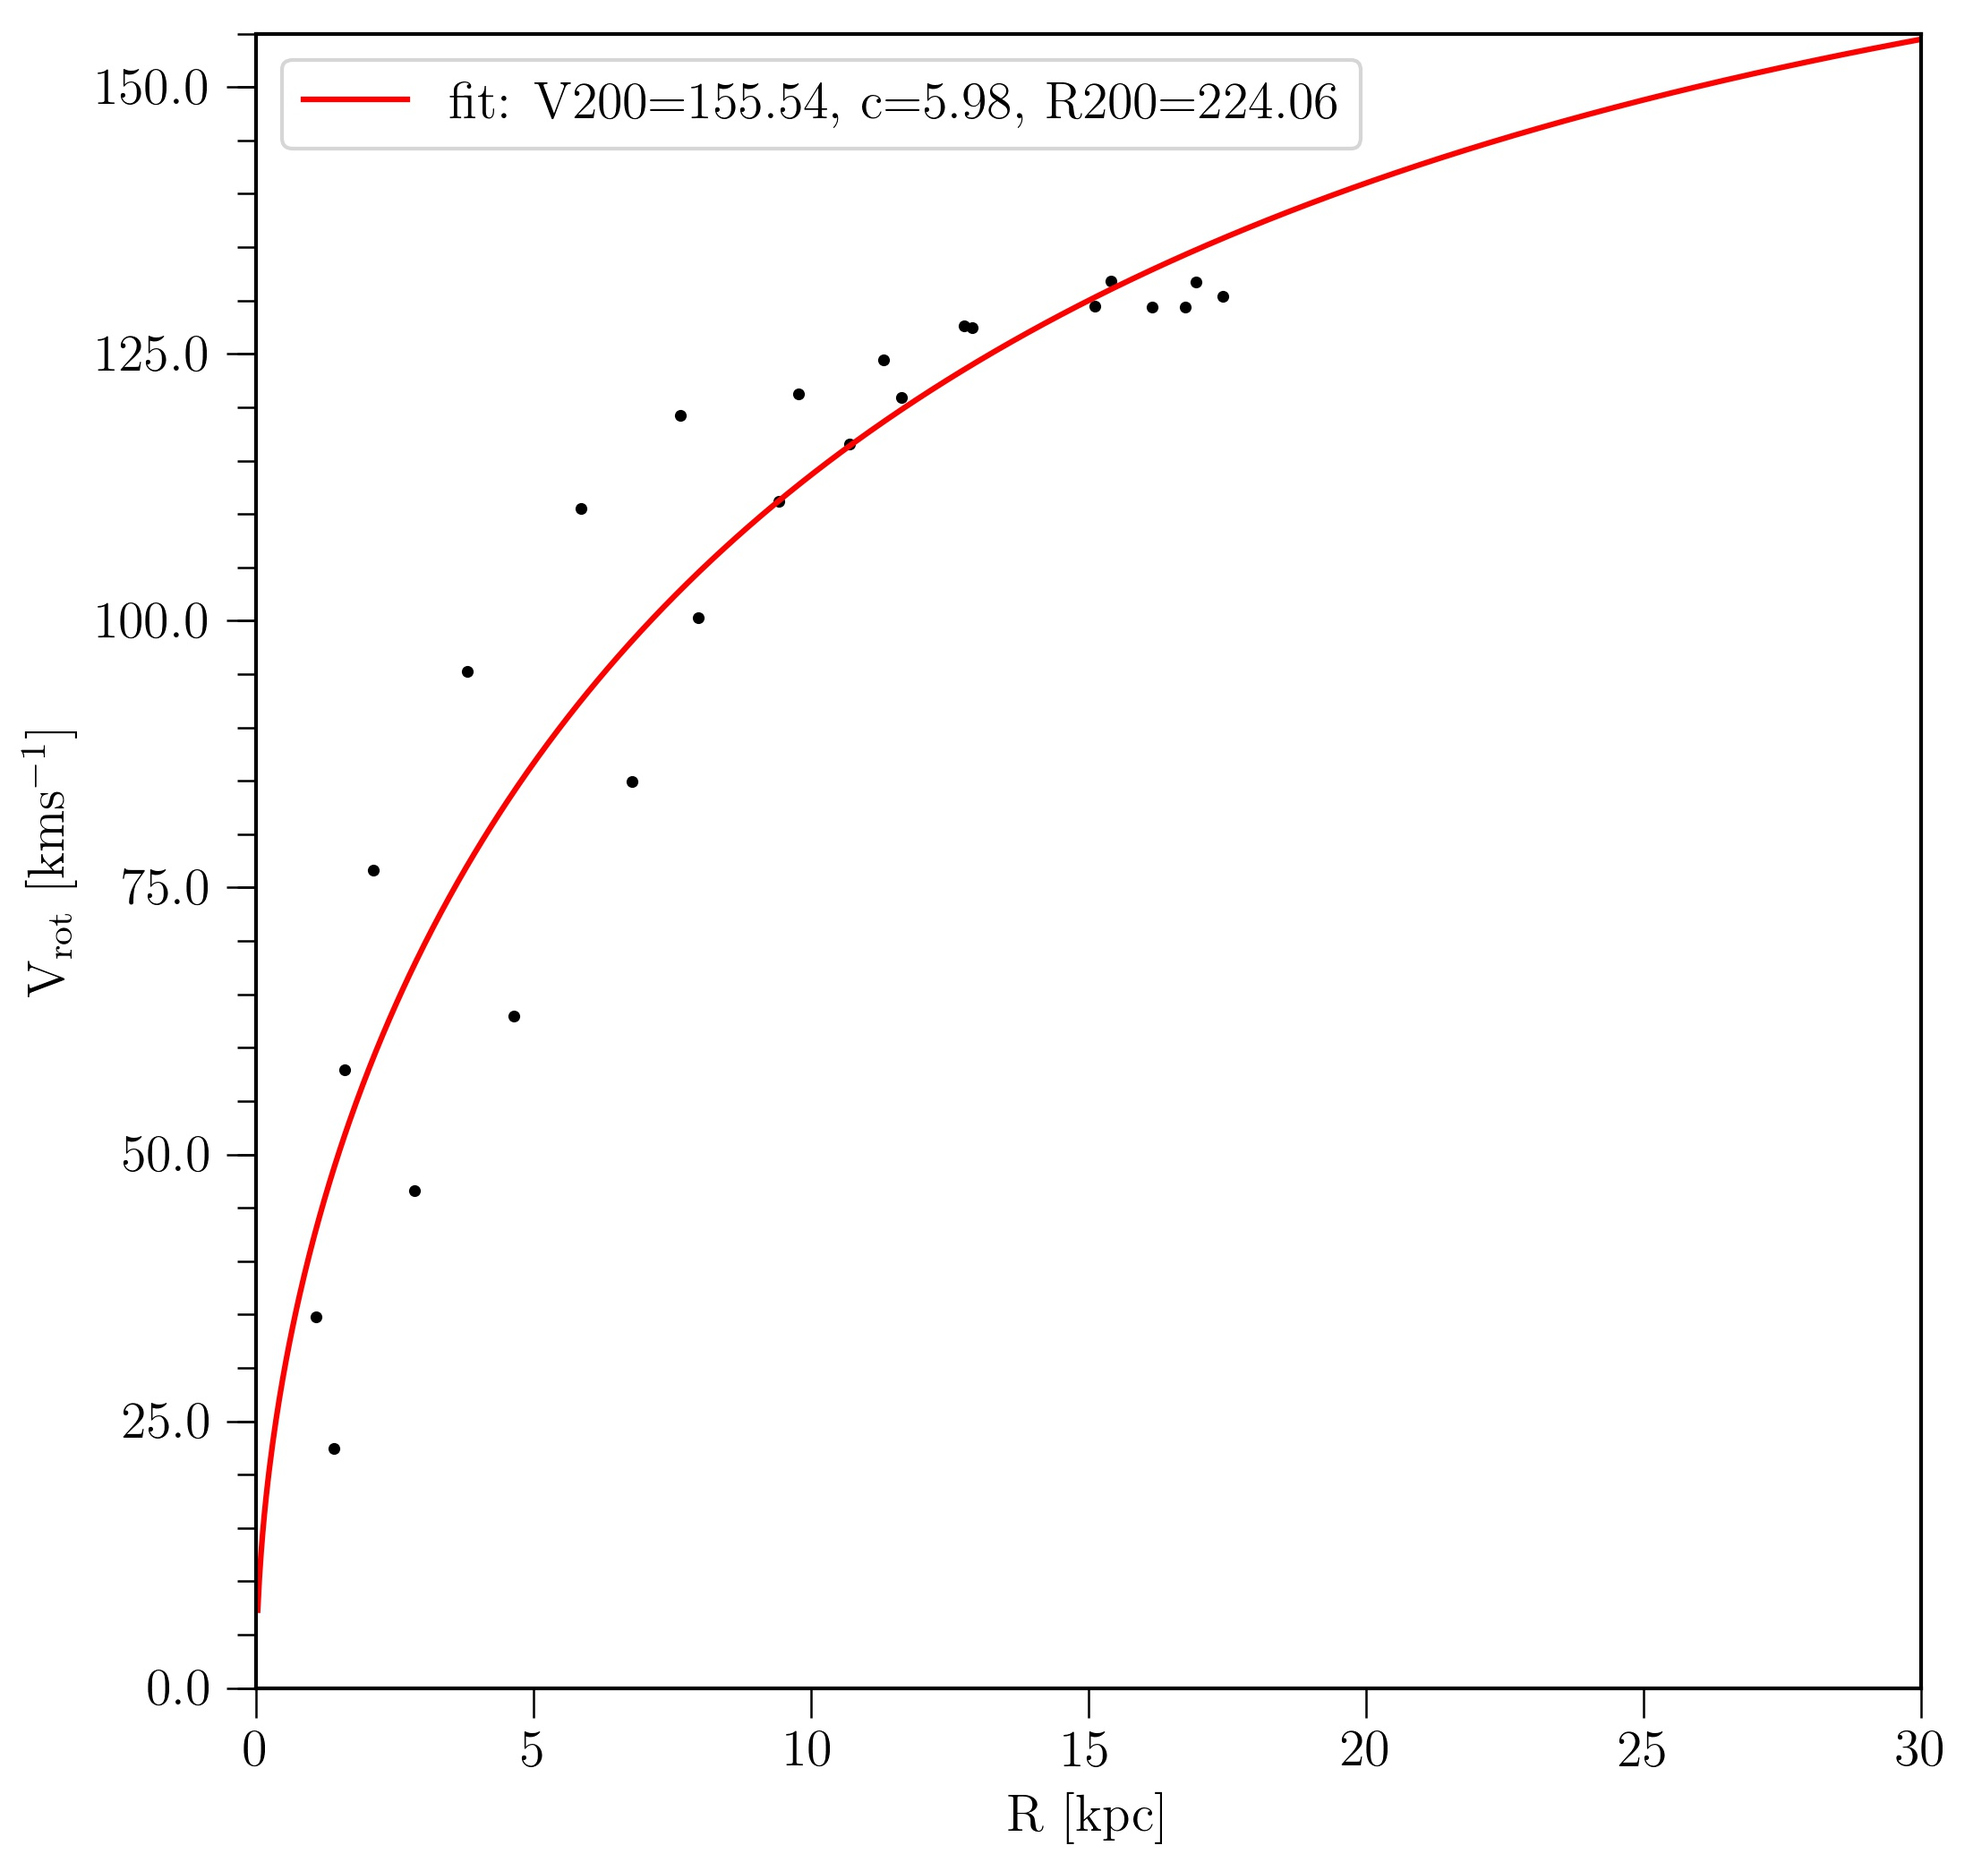
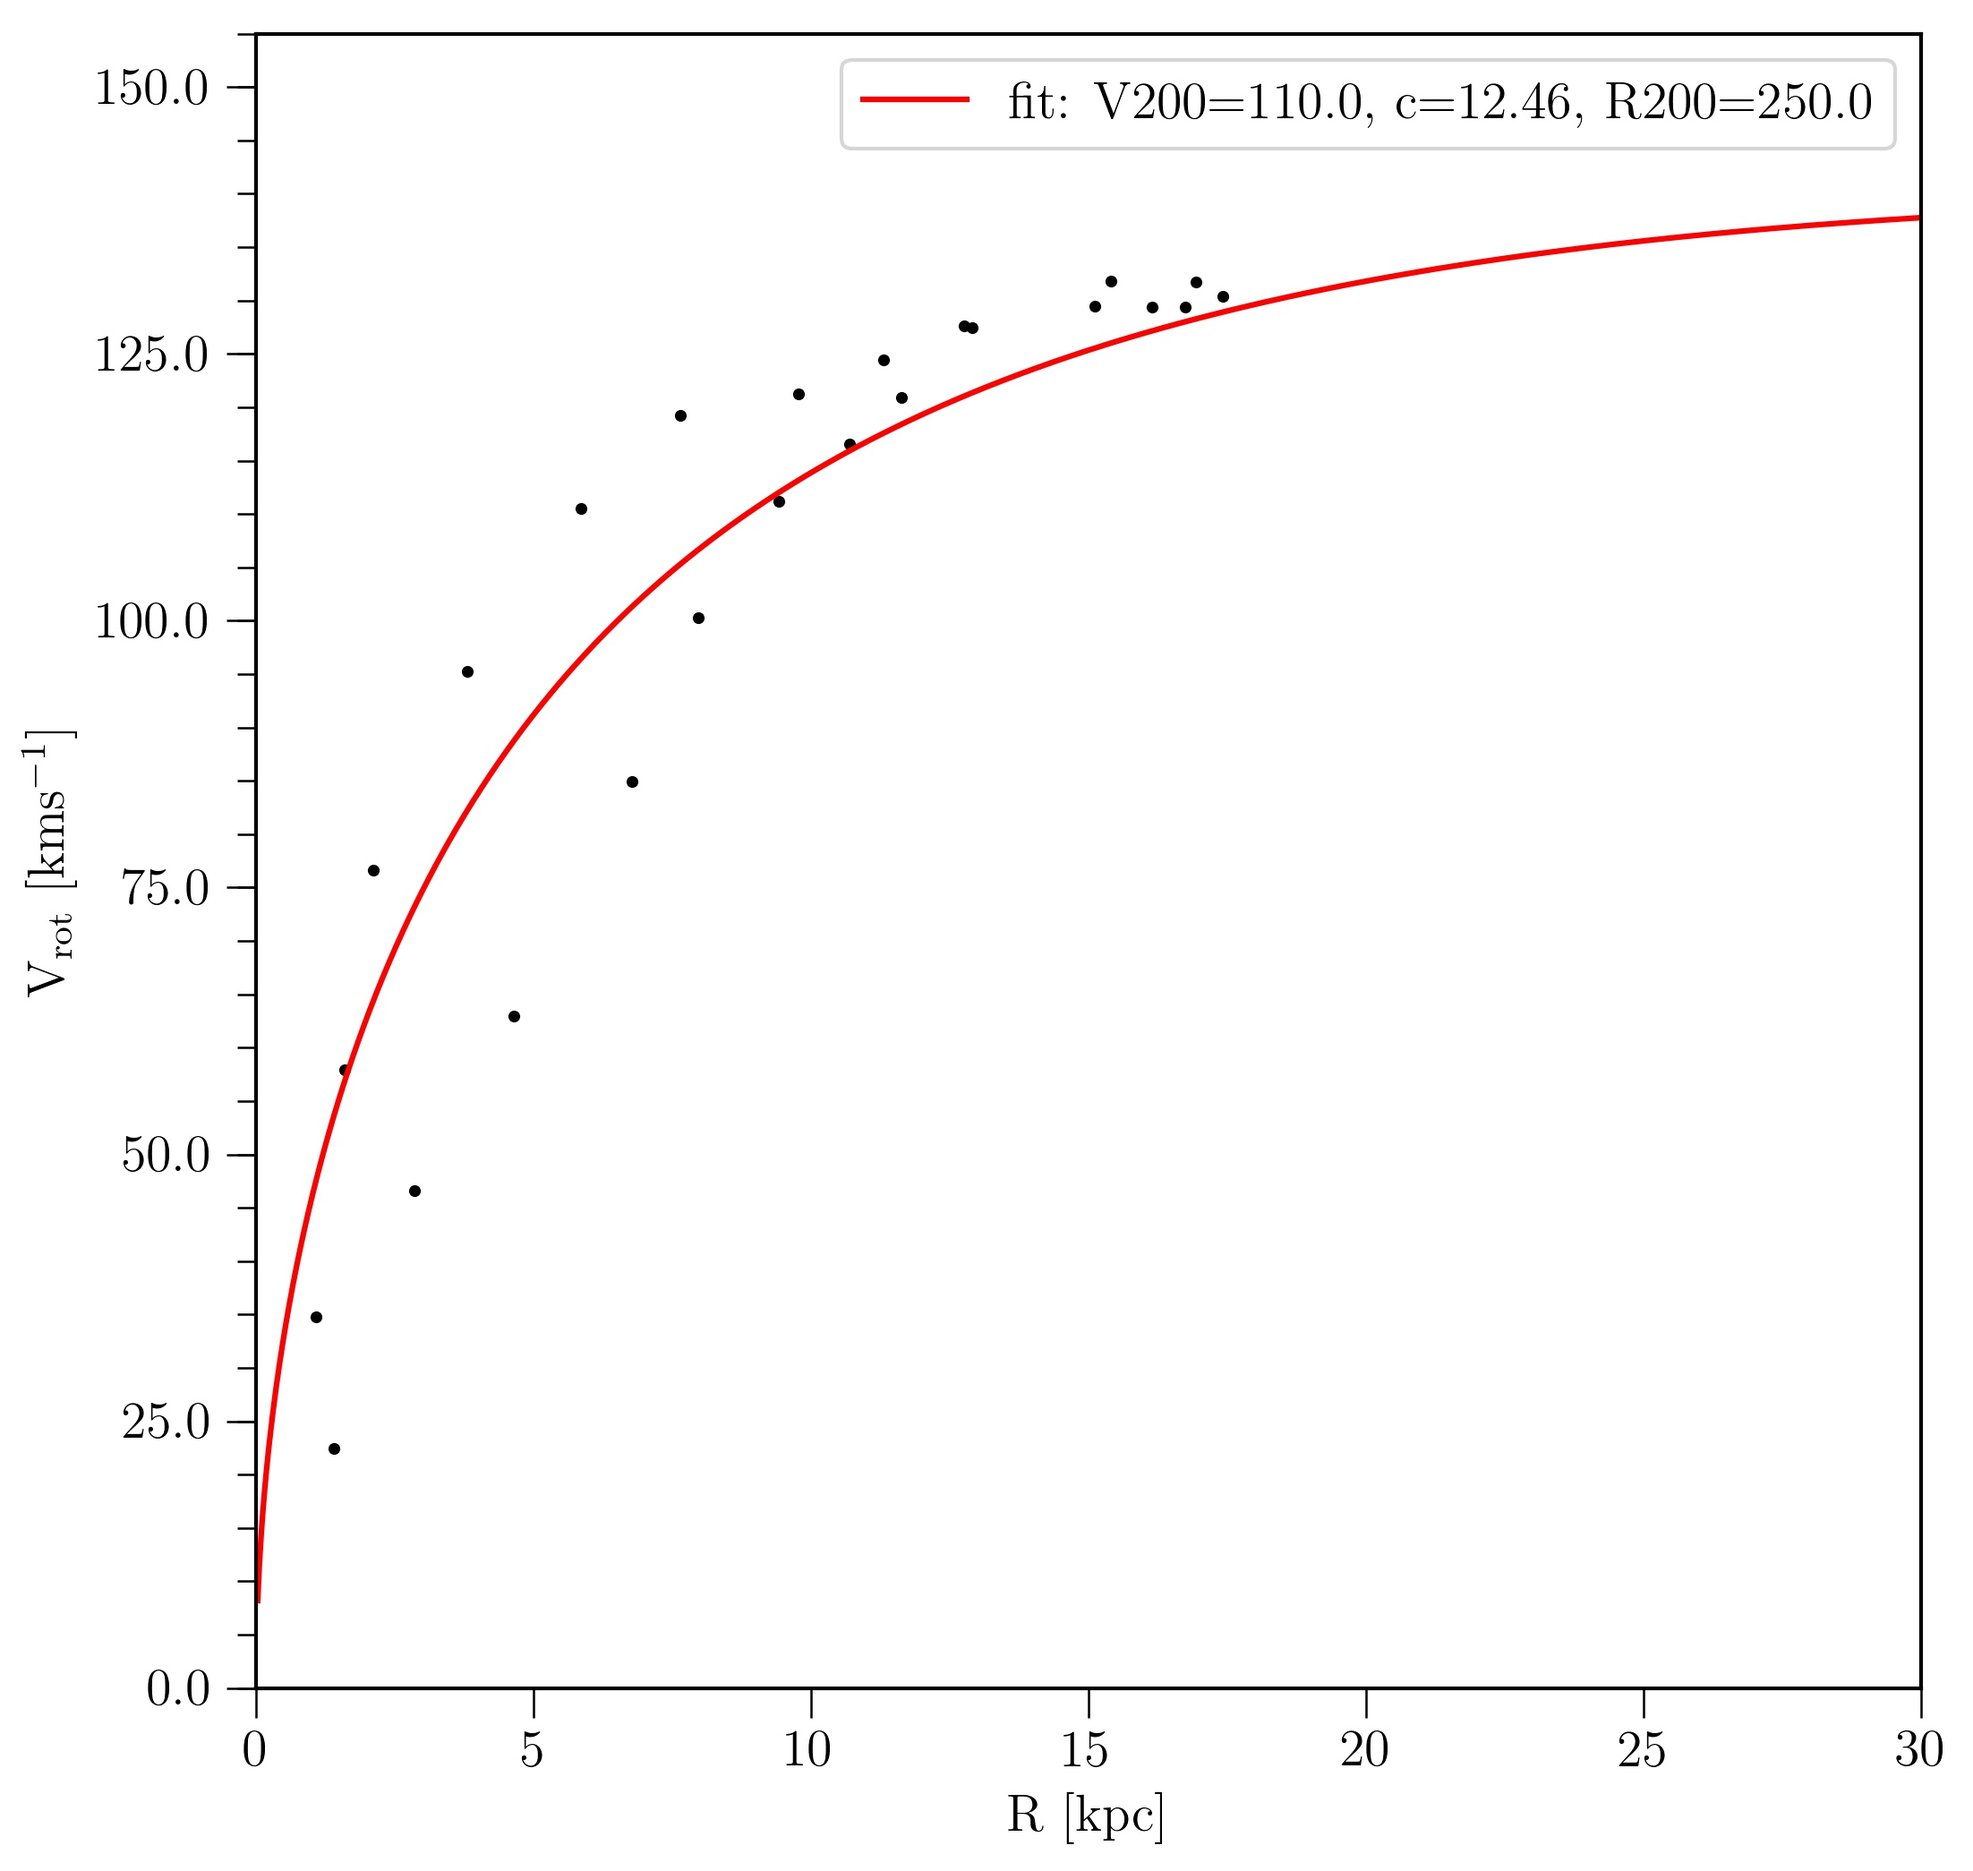
finished NGC3666 models, added model ranges to salt_galaxy_sightlines_cut_plus_ancillary.csv

diff --git a/rotation_paper/rotation_paper3.tex b/rotation_paper/rotation_paper3.tex
@@ -75,7 +75,8 @@ HE0439-5254  				&      NGC1566  		&      04  40  12.0  		&	-52  48  18.0  		&  
 H1101-232  				&      NGC3513  		&      11  03  37.7  		&	-23  29  31.0  		&   0.18600  	& 12025		&   [-36, 29]			&   [-35, 33]  		& 13341	\\
 SDSSJ112005.00+041323.0  	& 	NGC3633  		&      11  20  05.0  		&	+04  13  23.0 		&   0.54689  	& 12603		&   [-155, -12]			&   [-77, 13]  		& 4708	\\
 RX\_J1121.2+0326  			&      CGCG039-137 		&   	11  21  14.0  		&	+03  25  47.0 		&   0.15200  	& 12248		&   [-36, 138]			&   [-36, 166]  		& 2695	\\
-RX\_J1121.2+0326  			&      NGC3633  		&	11  21  14.0  		&	+03  25  47.0 		&   0.15200  	& 12248		&   [-155, -12]			&   [-77, 13]  		& 2695	\\
+RX\_J1121.2+0326  			&      NGC3633  		&	11 21 14.0  		&	+03  25  47.0 		&   0.15200  	& 12248		&   [-155, -12]			&   [-77, 13]  		& 2695	\\
+SDSSJ112224.10+031802.0	&	NGC3633			&	11 22 24.1			&	+03 18 02.0		&   0.47528	& 12603		&   N/A				&   N/A			& 7588	\\
 SDSSJ112224.10+031802.0  	& 	CGCG039-137 		&  	11  22  24.1  		&	+03  18  02.0 		&   0.47528  	& 12603		&   [-130, -114]			&   [-116, -98]  		& 7588	\\
 3C273.0  					&	NGC4536  		&      12  29  06.7  		&	+02  03  09.0 		&   0.15834  	& 12038		&  [67, 134]			&   [-6, 43]  		& 4002	\\
 HE1228+0131  				&      NGC4536  		&      12  30  50.0  		&	+01  15  23.0  		&   0.11700  	& 11686		&   [23, 131] 			&   [7, 33]  		& 11036	\\
@@ -130,11 +131,11 @@ CSO295					&	NGC3432			&	10 52 05.6		&	+36 40 40.0		&   0.60900	& 14772		&   [-3
 MS1047.3+3518			&	NGC3432			&	10 50 10.9		&	+35 02 02.0		&   0.04125	& 8316		&   [35, 124]			&   [19, 109]		&  8301	\\
 RX\_J1054.2+3511			&	NGC3432			&	10 54 16.2		&	+35 11 24.0		&   0.20300	& 14772		&   [0, 123]			&   [-9, 111]		&  533	\\
 
-SDSSJ112439.50+113117.0	&	NGC3666			&	11 24 39.4			&	+11 31 17.0		&   0.14300	& 14071		&   					&   				&  10427	\\
+SDSSJ112439.50+113117.0	&	NGC3666			&	11 24 39.4			&	+11 31 17.0		&   0.14300	& 14071		&   [-87, 20]			&   [-136, 20]		&  10427	\\
 
-SDSSJ112632.90+120437.0	&	NGC3666			&	11 26 32.9			&	+12 04 37.0		&   0.97700	& 13314		&   					&   				&  8289	\\
+SDSSJ112632.90+120437.0	&	NGC3666			&	11 26 32.9			&	+12 04 37.0		&   0.97700	& 13314		&   [-59, -29]			&   [-45, -18]		&  8289	\\
 
-SDSSJ112756.70+115427.0	&	NGC3666			&	11 27 56.8			&	+11 54 27.0		&   0.50900	& 14145		&   					&   				&  5146	\\
+SDSSJ112756.70+115427.0	&	NGC3666			&	11 27 56.8			&	+11 54 27.0		&   0.50900	& 14145		&   [-127, -80]			&   [-100, -57]		&  5146	\\
 
 
  \\
@@ -412,7 +413,7 @@ NGC3633 is an isolated, edge-on SAa type galaxy at a velocity of $2587 \pm 7$ \k
 
 There are three nearby sightlines: SDSSJ112005.00+041323.0 is straight north at 468 kpc and $78^{\circ}$ azimuth, RX\_J1121.2+0326 is to the southeast at 184 kpc and $58^{\circ}$ azimuth, and SDSSJ112224.10+031802.0 at 413 kpc and $50^{\circ}$ azimuth. Toward RX\_J1121.2+0326 we detect a Ly$\alpha$ absorber at 2605 \kms~on the approaching side, which is essentially systemic velocity for NGC3633. The spectrum of SDSSJ112224.10+031802.0 shows absorbers at 2285 and 2578 \kms, both of which are of the correct sign for co-rotation. We do not detect any Ly$\alpha$ towards the third sightline, SDSSJ112224.10+031802.0.
 
-SDSSJ112005.00+041323.0 and SDSSJ112224.10+031802.0 are both outside of our 2 x 3 $R_{vir}$ model limits.
+SDSSJ112005.00+041323.0 and SDSSJ112224.10+031802.0 are both outside of our 2 x 3 $R_{vir}$ model limits. 
 
 %We measure a redshift for this galaxy of $cz = 2597.6 \pm 2.4$ \kms. 
 
@@ -777,22 +778,24 @@ SDSSJ110349.70+371527.0 (low res only) \\
 
 
 \subsection{NGC3666}
-$V_{sys}=1060$ \kms. Mostly isolated, with only a few dwarfs $\sim400$ kpc away. \cite{rhee1996} \\
+NGC3666 is a mostly isolated and edge-on SA(rs)c type galaxy at $V_{sys}=1060$ \kms. We take a rotation curve and orientation from \cite{rhee1996}. The following three QSOs are located toward on the approaching, northeast side: SDSSJ112439.50+113117.0 at 58 kpc, SDSSJ112632.90+120437.0 at 279 kpc, and SDSSJ112756.70+115427.0 at 320 kpc. There are several dwarf galaxies $\sim400$ kpc away, but all are more distant than these three QSOs. We detect Ly$\alpha$ toward SDSSJ112439.50+113117.0 at 1047 and 1099 \kms ($\Delta v = -13, 39$ \kms).
 
-Inclination: 73 \\ 
-Adjusted Inc: 77 \\ 
-Morphology: SA(rs)c \\ 
-$L_{\**}$ = 0.61 \\
+\\
+
+%Inclination: 73 \\ 
+%Adjusted Inc: 77 \\ 
+%Morphology: SA(rs)c \\ 
+%$L_{\**}$ = 0.61 \\
 
 %SDSSJ111916.20+110107.0 at 406 kpc - G230L only \\
 %4C12.40 at 451 kpc - G190H, G270H, G230L only \\
 
-SDSSJ112439.50+113117.0 at 58 kpc - Borthakur target (Lya at 1047, 1099 \kms) \\
+SDSSJ112439.50+113117.0 at 58 kpc - Borthakur target (Lya at 1047, 1099 \kms), [-87, 20], [-136, 20]NFW	\\
 SDSSJ112632.90+120437.0 at 279 kpc - Borthakur target (not in reduce yet) \\ 
 SDSSJ112756.70+115427.0 at 320 kpc - (not in reduce yet) \\
 
-
 NW side is receding
+
 
 %\subsection{NGC3769}
 %$V_{sys} = 737$ \kms. \cite{rhee1996}

diff --git a/rotation_paper/rotation_model8.py b/rotation_paper/rotation_model8.py
@@ -295,8 +295,9 @@ def plot_NFW(xData, yData, popt, x_lim):
     
 def main():
     hubbleConstant = 71.0
-    fit_NFW = False
+    fit_NFW = True
     extendedHalo = False
+    diskOnly = False
 
 #     galaxyName = 'CGCG039-137'
 #     galaxyName = 'ESO343-G014'
@@ -320,11 +321,11 @@ def main():
 #     galaxyName = 'NGC5907'
 #     galaxyName = 'UGC06446'
 #     galaxyName = 'UGC06399'
-#     galaxyName = 'NGC3726'
+    galaxyName = 'NGC3726'
 #     galaxyName = 'NGC3067'
 #     galaxyName = 'NGC2770'
 #     galaxyName = 'NGC3432'
-    galaxyName = 'NGC3666'
+#     galaxyName = 'NGC3666'
 
 
     saveDirectory = '/Users/frenchd/Research/test/{0}/'.format(galaxyName)
@@ -566,10 +567,11 @@ def main():
 
 
         # NGC3726
-#         flipInclination = True
-#         reverse = True
+        flipInclination = True
+        reverse = True
+        NFW_fit = 'standard'
 #         agnName = 'CSO1208'
-#         agnName = 'RX_J1142.7+4625'
+        agnName = 'RX_J1142.7+4625'
 
 
         # NGC3067
@@ -601,12 +603,13 @@ def main():
 
 
         # NGC3666
-        flipInclination = True
+#         flipInclination = True
         # reverse for NFW, not for 2x3R_vir
-        reverse = False
+#         reverse = True
+#         NFW_fit = 'tighter'
 #         agnName = 'SDSSJ112439.50+113117.0'
 #         agnName = 'SDSSJ112632.90+120437.0'
-        agnName = 'SDSSJ112756.70+115427.0'
+#         agnName = 'SDSSJ112756.70+115427.0'
 
 
         # grab the coordinates for this target
@@ -712,7 +715,6 @@ def main():
         r200 = R_vir
         print 'r200: ',r200
         
-
         r200_lowerbound = 10
         r200_upperbound = 350
         v200_lowerbound = 10
@@ -721,29 +723,46 @@ def main():
         c_upperbound = 35
         
         # slightly tighter (e.g., for NGC2770)
-#         r200_lowerbound = 10
-#         r200_upperbound = 250
-#         v200_lowerbound = 10
-#         v200_upperbound = 130
-#         c_lowerbound = 1
-#         c_upperbound = 35
-#         
-#         v200 = 50
-#         c = 10
-#         r200 = R_vir
+        if NFW_fit == 'tight':
+            r200_lowerbound = 10
+            r200_upperbound = 250
+            v200_lowerbound = 10
+            v200_upperbound = 130
+            c_lowerbound = 1
+            c_upperbound = 35
+        
+            v200 = 50
+            c = 10
+            r200 = R_vir
         
 
         # tighter bounds (e.g., for UGC04238, UGC09760)
-#         r200_lowerbound = 10
-#         r200_upperbound = 250
-#         v200_lowerbound = 10
-#         v200_upperbound = 90
-#         c_lowerbound = 1
-#         c_upperbound = 35
-#         
-#         v200 = 50
-#         c = 10
-#         r200 = R_vir
+        if NFW_fit == 'tighter':
+            r200_lowerbound = 10
+            r200_upperbound = 250
+            v200_lowerbound = 10
+            v200_upperbound = 110
+            c_lowerbound = 1
+            c_upperbound = 35
+            
+            v200 = 50
+            c = 10
+            r200 = R_vir
+
+
+        # tighter bounds (e.g., for UGC04238, UGC09760)
+        if NFW_fit == 'tightest':
+            r200_lowerbound = 10
+            r200_upperbound = 250
+            v200_lowerbound = 10
+            v200_upperbound = 90
+            c_lowerbound = 1
+            c_upperbound = 35
+            
+            v200 = 50
+            c = 10
+            r200 = R_vir
+            
         
         try:
             popt, pcov = optimize.curve_fit(NFW, newX, newVals, p0=[v200,c,r200], \
@@ -1005,6 +1024,10 @@ def main():
         s = 0.01
     else:
         s = 0.0001
+        
+    if diskOnly:
+        zcutoff = 0.1
+        s = 0.1
     
 #     for i in arange(-zcutoff,zcutoff,.1):
 #     for i in arange(-99,-97.5,.0005):
